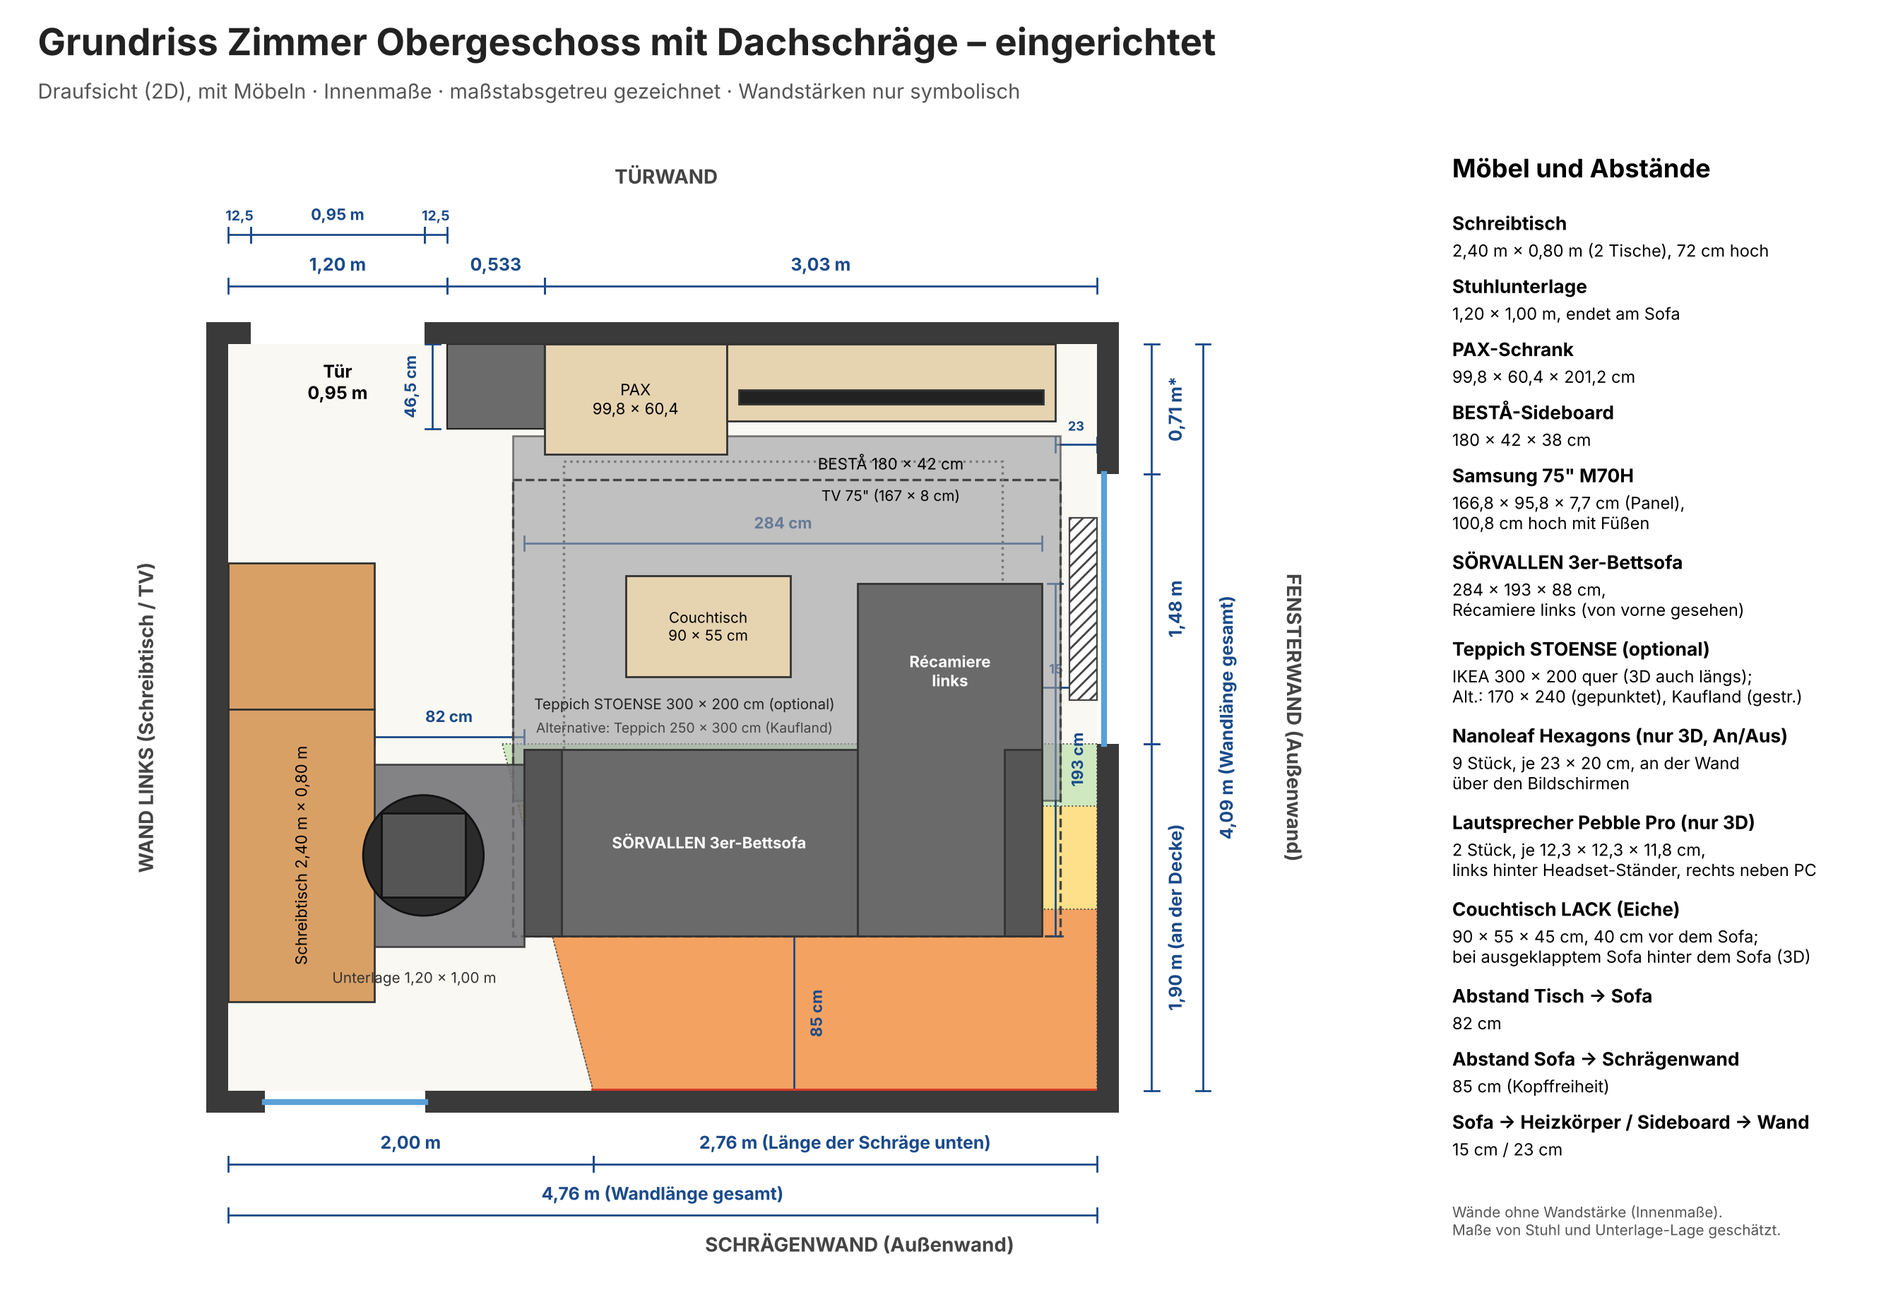
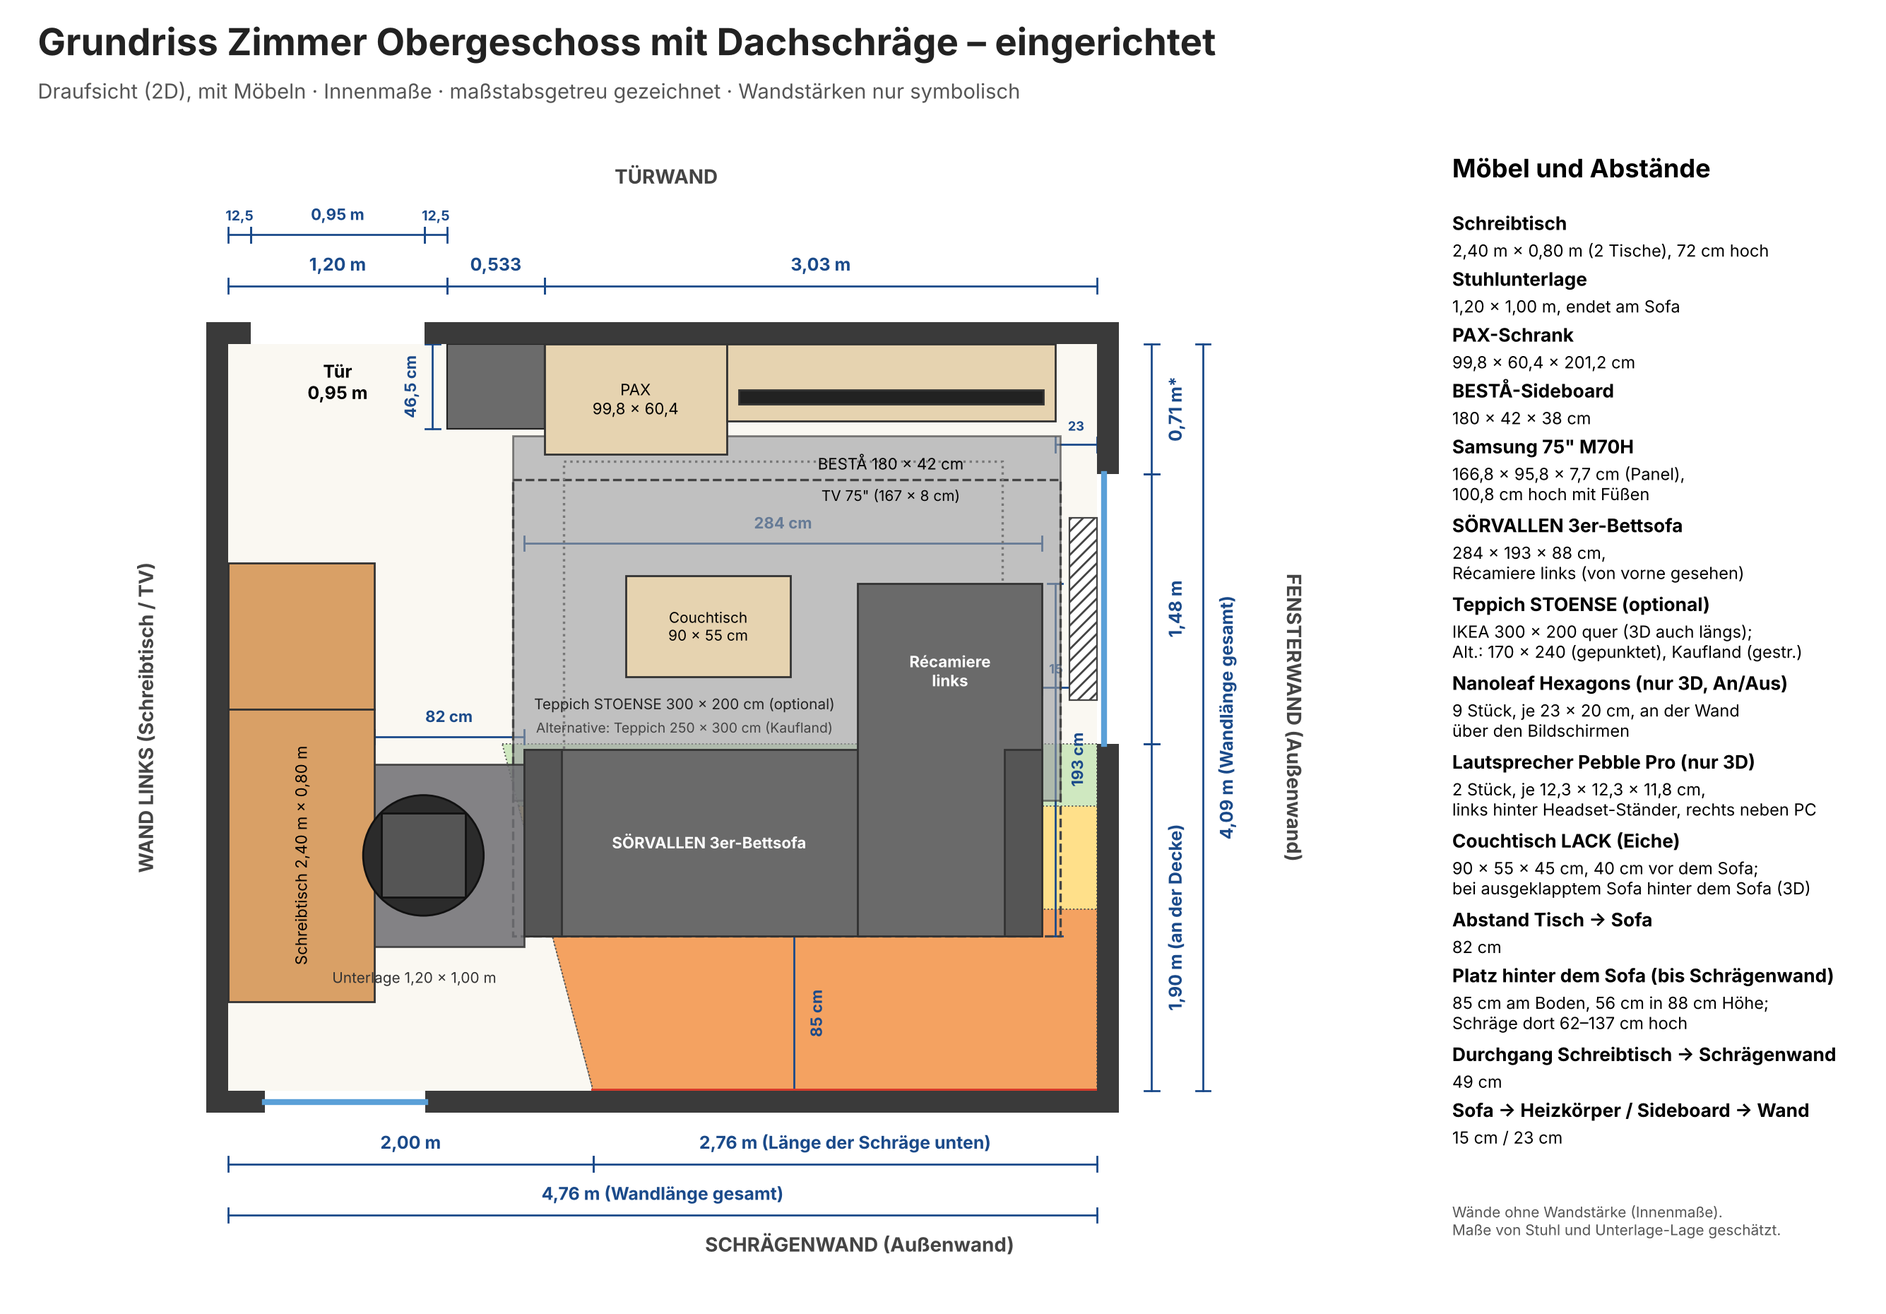
Platz hinter dem Sofa (85 cm, 56 cm in 88 cm Hoehe) in 3D, Plan und Einkaufsliste
Claude-Session: https://claude.ai/code/session_01Hf3Bkowp5NFKLbRns8Nosg

Changed region(s): [[0.7461, 0.1871, 0.9637, 0.8731]]

diff --git a/eingerichtet.html b/eingerichtet.html
@@ -561,7 +561,7 @@ var LC={'Schreibtisch 2,40 m':'tisch','Höhe 72 cm':'tisch','Tiefe 80 cm':'tisch
  'Schrank 99,8 × 60,4 × 201,2 cm':'schrank','201,2 cm':'schrank','99,8 cm':'schrank',
  'Sideboard 180 × 42 × 38 cm':'sideboard','38 cm':'sideboard','180 cm':'sideboard','Rest bis Fensterwand ≈ 0,23 m':'sideboard',
  'Fernseher 75" · Panel 166,8 × 95,8 × 7,7 cm':'tv','Bilddiagonale ≈ 189 cm (75 Zoll)':'tv','100,8 cm (mit Füßen)':'tv','138,8 cm gesamt':'tv',
- 'Sofa SÖRVALLEN 284 × 193 × 88 cm':'sofa','284 cm':'sofa','85 cm Abstand zur Schrägenwand':'sofa','Tiefe 102 cm':'sofa','193 cm':'sofa','Decke 137 cm: 49 cm Luft über Rücken (88 cm)':'sofa','15 cm bis Heizkörper':'sofa','Schlaffläche 239 × 147 cm':'bett','239 cm':'bett','147 cm':'bett','Bettkante bis Sideboard 89 cm':'bett','Couchtisch LACK 90 × 55 × 45 cm':'ctn','Breite 90 cm':'ctn','Tiefe 55 cm':'ctn','bis Sofa 40 cm':'ctn','bis Récamiere 36 cm':'ctn','bis Sideboard 85 cm':'ctn','Höhe 45 cm':'ctn','Couchtisch LACK 90 × 55 × 45 cm (hinter dem Sofa)':'ctb','Breite 90 cm (hinter dem Sofa)':'ctb','Tiefe 55 cm (hinter dem Sofa)':'ctb','bis Sofa 10 cm':'ctb','bis Schrägenwand 20 cm':'ctb','Tischhöhe 45 cm':'ctb',
+ 'Sofa SÖRVALLEN 284 × 193 × 88 cm':'sofa','284 cm':'sofa','85 cm Platz hinter dem Sofa (Schräge dort 62–137 cm hoch)':'sofa','Tiefe 102 cm':'sofa','193 cm':'sofa','Decke 137 cm: 49 cm Luft über Rücken (88 cm)':'sofa','15 cm bis Heizkörper':'sofa','Schlaffläche 239 × 147 cm':'bett','239 cm':'bett','147 cm':'bett','Bettkante bis Sideboard 89 cm':'bett','Couchtisch LACK 90 × 55 × 45 cm':'ctn','Breite 90 cm':'ctn','Tiefe 55 cm':'ctn','bis Sofa 40 cm':'ctn','bis Récamiere 36 cm':'ctn','bis Sideboard 85 cm':'ctn','Höhe 45 cm':'ctn','Couchtisch LACK 90 × 55 × 45 cm (hinter dem Sofa)':'ctb','Breite 90 cm (hinter dem Sofa)':'ctb','Tiefe 55 cm (hinter dem Sofa)':'ctb','bis Sofa 10 cm':'ctb','bis Schrägenwand 20 cm':'ctb','Tischhöhe 45 cm':'ctb',
  'Unterlage 120 cm':'stuhl','38 cm unter Tischplatte':'stuhl','Unterlage 100 cm':'stuhl','Unterlage endet am Sofa':'stuhl','Bürostuhl (geschätzt)':'stuhl',
  'Tisch bis Sofa 82 cm':'abstand','Stuhl–Sofa 27 cm':'abstand'};Object.assign(LC,RUGLC);LEDLB.forEach(function(l){LC[l[0]]='led';});TVLB.forEach(function(l){LC[l[0]]='tvled';});
 var labels=[
@@ -574,7 +574,7 @@ var labels=[
  ['Fernseher 75" · Panel 166,8 × 95,8 × 7,7 cm',TVCX,TVYC,TVZ0+TVH+0.12],['Bilddiagonale ≈ 189 cm (75 Zoll)',TVCX,TVF+0.004,TVZ0+TVH/2],
  ['201,2 cm',PX0+PW/2,PD+0.08,PH/2],['38 cm',SB0+SBW+0.06,SBD,SBH/2],['100,8 cm (mit Füßen)',SB0+SBW+0.06,SBD,SBH+TVH/2],['138,8 cm gesamt',SB0+SBW+0.14,SBD,(TVZ0+TVH)/2],
  ['Sofa SÖRVALLEN 284 × 193 × 88 cm',SX0+SWD/2,D-SGAP-0.6,1.0],['284 cm',SX0+SWD/2,D-SGAP/2,0.02],
- ['85 cm Abstand zur Schrägenwand',SX0-0.08,D-SGAP/2,0.02],['Tiefe 102 cm',SX0-0.08,D-SGAP-0.51,0.02],['193 cm',SX0+SWD+0.08,D-SGAP-0.965,0.02],
+ ['85 cm Platz hinter dem Sofa (Schräge dort 62–137 cm hoch)',SX0-0.08,D-SGAP/2,0.02],['Tiefe 102 cm',SX0-0.08,D-SGAP-0.51,0.02],['193 cm',SX0+SWD+0.08,D-SGAP-0.965,0.02],
  ['Decke 137 cm: 49 cm Luft über Rücken (88 cm)',SX0+SWD/2,D-SGAP,0.95],['15 cm bis Heizkörper',SX0+SWD+0.075,1.95,0.02],
  ['Schlaffläche 239 × 147 cm',3.05,(BYF+BYR)/2,0.9],['239 cm',(BXA+BXB)/2,BYF-0.15,0.02],['147 cm',SX0-0.12,(BYF+BYR)/2,0.02],['Bettkante bis Sideboard 89 cm',4.10,(SBD+BYF)/2,0.02],
  ['Couchtisch LACK 90 × 55 × 45 cm',(CTN[0]+CTN[2])/2,(CTN[1]+CTN[3])/2,0.62],['Breite 90 cm',(CTN[0]+CTN[2])/2,CTN[1]-0.10,0.02],['Tiefe 55 cm',2.08,(CTN[1]+CTN[3])/2,0.02],['bis Sofa 40 cm',2.08,(CTN[3]+D-SGAP-1.02)/2,0.02],['bis Récamiere 36 cm',(CTN[2]+SX0+1.825)/2,1.55,0.02],['bis Sideboard 85 cm',2.75,(SBD+CTN[1])/2,0.02],['Höhe 45 cm',CTN[2]+0.06,1.545,0.22],['Couchtisch LACK 90 × 55 × 45 cm (hinter dem Sofa)',(CTB[0]+CTB[2])/2,(CTB[1]+CTB[3])/2,0.62],['Breite 90 cm (hinter dem Sofa)',(CTB[0]+CTB[2])/2,CTB[3]+0.10,0.02],['Tiefe 55 cm (hinter dem Sofa)',2.50,(CTB[1]+CTB[3])/2,0.02],['bis Sofa 10 cm',2.50,D-SGAP+0.05,0.02],['bis Schrägenwand 20 cm',3.70,(CTB[3]+D)/2,0.02],['Tischhöhe 45 cm',CTB[2]+0.06,(CTB[1]+CTB[3])/2,0.22],

diff --git a/eingerichtet_mobil.html b/eingerichtet_mobil.html
@@ -578,7 +578,7 @@ var LC={'Schreibtisch 2,40 m':'tisch','Höhe 72 cm':'tisch','Tiefe 80 cm':'tisch
  'Schrank 99,8 × 60,4 × 201,2 cm':'schrank','201,2 cm':'schrank','99,8 cm':'schrank',
  'Sideboard 180 × 42 × 38 cm':'sideboard','38 cm':'sideboard','180 cm':'sideboard','Rest bis Fensterwand ≈ 0,23 m':'sideboard',
  'Fernseher 75" · Panel 166,8 × 95,8 × 7,7 cm':'tv','Bilddiagonale ≈ 189 cm (75 Zoll)':'tv','100,8 cm (mit Füßen)':'tv','138,8 cm gesamt':'tv',
- 'Sofa SÖRVALLEN 284 × 193 × 88 cm':'sofa','284 cm':'sofa','85 cm Abstand zur Schrägenwand':'sofa','Tiefe 102 cm':'sofa','193 cm':'sofa','Decke 137 cm: 49 cm Luft über Rücken (88 cm)':'sofa','15 cm bis Heizkörper':'sofa','Schlaffläche 239 × 147 cm':'bett','239 cm':'bett','147 cm':'bett','Bettkante bis Sideboard 89 cm':'bett','Couchtisch LACK 90 × 55 × 45 cm':'ctn','Breite 90 cm':'ctn','Tiefe 55 cm':'ctn','bis Sofa 40 cm':'ctn','bis Récamiere 36 cm':'ctn','bis Sideboard 85 cm':'ctn','Höhe 45 cm':'ctn','Couchtisch LACK 90 × 55 × 45 cm (hinter dem Sofa)':'ctb','Breite 90 cm (hinter dem Sofa)':'ctb','Tiefe 55 cm (hinter dem Sofa)':'ctb','bis Sofa 10 cm':'ctb','bis Schrägenwand 20 cm':'ctb','Tischhöhe 45 cm':'ctb',
+ 'Sofa SÖRVALLEN 284 × 193 × 88 cm':'sofa','284 cm':'sofa','85 cm Platz hinter dem Sofa (Schräge dort 62–137 cm hoch)':'sofa','Tiefe 102 cm':'sofa','193 cm':'sofa','Decke 137 cm: 49 cm Luft über Rücken (88 cm)':'sofa','15 cm bis Heizkörper':'sofa','Schlaffläche 239 × 147 cm':'bett','239 cm':'bett','147 cm':'bett','Bettkante bis Sideboard 89 cm':'bett','Couchtisch LACK 90 × 55 × 45 cm':'ctn','Breite 90 cm':'ctn','Tiefe 55 cm':'ctn','bis Sofa 40 cm':'ctn','bis Récamiere 36 cm':'ctn','bis Sideboard 85 cm':'ctn','Höhe 45 cm':'ctn','Couchtisch LACK 90 × 55 × 45 cm (hinter dem Sofa)':'ctb','Breite 90 cm (hinter dem Sofa)':'ctb','Tiefe 55 cm (hinter dem Sofa)':'ctb','bis Sofa 10 cm':'ctb','bis Schrägenwand 20 cm':'ctb','Tischhöhe 45 cm':'ctb',
  'Unterlage 120 cm':'stuhl','38 cm unter Tischplatte':'stuhl','Unterlage 100 cm':'stuhl','Unterlage endet am Sofa':'stuhl','Bürostuhl (geschätzt)':'stuhl',
  'Tisch bis Sofa 82 cm':'abstand','Stuhl–Sofa 27 cm':'abstand'};Object.assign(LC,RUGLC);LEDLB.forEach(function(l){LC[l[0]]='led';});TVLB.forEach(function(l){LC[l[0]]='tvled';});
 var labels=[
@@ -591,7 +591,7 @@ var labels=[
  ['Fernseher 75" · Panel 166,8 × 95,8 × 7,7 cm',TVCX,TVYC,TVZ0+TVH+0.12],['Bilddiagonale ≈ 189 cm (75 Zoll)',TVCX,TVF+0.004,TVZ0+TVH/2],
  ['201,2 cm',PX0+PW/2,PD+0.08,PH/2],['38 cm',SB0+SBW+0.06,SBD,SBH/2],['100,8 cm (mit Füßen)',SB0+SBW+0.06,SBD,SBH+TVH/2],['138,8 cm gesamt',SB0+SBW+0.14,SBD,(TVZ0+TVH)/2],
  ['Sofa SÖRVALLEN 284 × 193 × 88 cm',SX0+SWD/2,D-SGAP-0.6,1.0],['284 cm',SX0+SWD/2,D-SGAP/2,0.02],
- ['85 cm Abstand zur Schrägenwand',SX0-0.08,D-SGAP/2,0.02],['Tiefe 102 cm',SX0-0.08,D-SGAP-0.51,0.02],['193 cm',SX0+SWD+0.08,D-SGAP-0.965,0.02],
+ ['85 cm Platz hinter dem Sofa (Schräge dort 62–137 cm hoch)',SX0-0.08,D-SGAP/2,0.02],['Tiefe 102 cm',SX0-0.08,D-SGAP-0.51,0.02],['193 cm',SX0+SWD+0.08,D-SGAP-0.965,0.02],
  ['Decke 137 cm: 49 cm Luft über Rücken (88 cm)',SX0+SWD/2,D-SGAP,0.95],['15 cm bis Heizkörper',SX0+SWD+0.075,1.95,0.02],
  ['Schlaffläche 239 × 147 cm',3.05,(BYF+BYR)/2,0.9],['239 cm',(BXA+BXB)/2,BYF-0.15,0.02],['147 cm',SX0-0.12,(BYF+BYR)/2,0.02],['Bettkante bis Sideboard 89 cm',4.10,(SBD+BYF)/2,0.02],
  ['Couchtisch LACK 90 × 55 × 45 cm',(CTN[0]+CTN[2])/2,(CTN[1]+CTN[3])/2,0.62],['Breite 90 cm',(CTN[0]+CTN[2])/2,CTN[1]-0.10,0.02],['Tiefe 55 cm',2.08,(CTN[1]+CTN[3])/2,0.02],['bis Sofa 40 cm',2.08,(CTN[3]+D-SGAP-1.02)/2,0.02],['bis Récamiere 36 cm',(CTN[2]+SX0+1.825)/2,1.55,0.02],['bis Sideboard 85 cm',2.75,(SBD+CTN[1])/2,0.02],['Höhe 45 cm',CTN[2]+0.06,1.545,0.22],['Couchtisch LACK 90 × 55 × 45 cm (hinter dem Sofa)',(CTB[0]+CTB[2])/2,(CTB[1]+CTB[3])/2,0.62],['Breite 90 cm (hinter dem Sofa)',(CTB[0]+CTB[2])/2,CTB[3]+0.10,0.02],['Tiefe 55 cm (hinter dem Sofa)',2.50,(CTB[1]+CTB[3])/2,0.02],['bis Sofa 10 cm',2.50,D-SGAP+0.05,0.02],['bis Schrägenwand 20 cm',3.70,(CTB[3]+D)/2,0.02],['Tischhöhe 45 cm',CTB[2]+0.06,(CTB[1]+CTB[3])/2,0.22],

diff --git a/interaktiv.html b/interaktiv.html
@@ -561,7 +561,7 @@ var LC={'Schreibtisch 2,40 m':'tisch','Höhe 72 cm':'tisch','Tiefe 80 cm':'tisch
  'Schrank 99,8 × 60,4 × 201,2 cm':'schrank','201,2 cm':'schrank','99,8 cm':'schrank',
  'Sideboard 180 × 42 × 38 cm':'sideboard','38 cm':'sideboard','180 cm':'sideboard','Rest bis Fensterwand ≈ 0,23 m':'sideboard',
  'Fernseher 75" · Panel 166,8 × 95,8 × 7,7 cm':'tv','Bilddiagonale ≈ 189 cm (75 Zoll)':'tv','100,8 cm (mit Füßen)':'tv','138,8 cm gesamt':'tv',
- 'Sofa SÖRVALLEN 284 × 193 × 88 cm':'sofa','284 cm':'sofa','85 cm Abstand zur Schrägenwand':'sofa','Tiefe 102 cm':'sofa','193 cm':'sofa','Decke 137 cm: 49 cm Luft über Rücken (88 cm)':'sofa','15 cm bis Heizkörper':'sofa','Schlaffläche 239 × 147 cm':'bett','239 cm':'bett','147 cm':'bett','Bettkante bis Sideboard 89 cm':'bett','Couchtisch LACK 90 × 55 × 45 cm':'ctn','Breite 90 cm':'ctn','Tiefe 55 cm':'ctn','bis Sofa 40 cm':'ctn','bis Récamiere 36 cm':'ctn','bis Sideboard 85 cm':'ctn','Höhe 45 cm':'ctn','Couchtisch LACK 90 × 55 × 45 cm (hinter dem Sofa)':'ctb','Breite 90 cm (hinter dem Sofa)':'ctb','Tiefe 55 cm (hinter dem Sofa)':'ctb','bis Sofa 10 cm':'ctb','bis Schrägenwand 20 cm':'ctb','Tischhöhe 45 cm':'ctb',
+ 'Sofa SÖRVALLEN 284 × 193 × 88 cm':'sofa','284 cm':'sofa','85 cm Platz hinter dem Sofa (Schräge dort 62–137 cm hoch)':'sofa','Tiefe 102 cm':'sofa','193 cm':'sofa','Decke 137 cm: 49 cm Luft über Rücken (88 cm)':'sofa','15 cm bis Heizkörper':'sofa','Schlaffläche 239 × 147 cm':'bett','239 cm':'bett','147 cm':'bett','Bettkante bis Sideboard 89 cm':'bett','Couchtisch LACK 90 × 55 × 45 cm':'ctn','Breite 90 cm':'ctn','Tiefe 55 cm':'ctn','bis Sofa 40 cm':'ctn','bis Récamiere 36 cm':'ctn','bis Sideboard 85 cm':'ctn','Höhe 45 cm':'ctn','Couchtisch LACK 90 × 55 × 45 cm (hinter dem Sofa)':'ctb','Breite 90 cm (hinter dem Sofa)':'ctb','Tiefe 55 cm (hinter dem Sofa)':'ctb','bis Sofa 10 cm':'ctb','bis Schrägenwand 20 cm':'ctb','Tischhöhe 45 cm':'ctb',
  'Unterlage 120 cm':'stuhl','38 cm unter Tischplatte':'stuhl','Unterlage 100 cm':'stuhl','Unterlage endet am Sofa':'stuhl','Bürostuhl (geschätzt)':'stuhl',
  'Tisch bis Sofa 82 cm':'abstand','Stuhl–Sofa 27 cm':'abstand'};Object.assign(LC,RUGLC);LEDLB.forEach(function(l){LC[l[0]]='led';});TVLB.forEach(function(l){LC[l[0]]='tvled';});
 var labels=[
@@ -574,7 +574,7 @@ var labels=[
  ['Fernseher 75" · Panel 166,8 × 95,8 × 7,7 cm',TVCX,TVYC,TVZ0+TVH+0.12],['Bilddiagonale ≈ 189 cm (75 Zoll)',TVCX,TVF+0.004,TVZ0+TVH/2],
  ['201,2 cm',PX0+PW/2,PD+0.08,PH/2],['38 cm',SB0+SBW+0.06,SBD,SBH/2],['100,8 cm (mit Füßen)',SB0+SBW+0.06,SBD,SBH+TVH/2],['138,8 cm gesamt',SB0+SBW+0.14,SBD,(TVZ0+TVH)/2],
  ['Sofa SÖRVALLEN 284 × 193 × 88 cm',SX0+SWD/2,D-SGAP-0.6,1.0],['284 cm',SX0+SWD/2,D-SGAP/2,0.02],
- ['85 cm Abstand zur Schrägenwand',SX0-0.08,D-SGAP/2,0.02],['Tiefe 102 cm',SX0-0.08,D-SGAP-0.51,0.02],['193 cm',SX0+SWD+0.08,D-SGAP-0.965,0.02],
+ ['85 cm Platz hinter dem Sofa (Schräge dort 62–137 cm hoch)',SX0-0.08,D-SGAP/2,0.02],['Tiefe 102 cm',SX0-0.08,D-SGAP-0.51,0.02],['193 cm',SX0+SWD+0.08,D-SGAP-0.965,0.02],
  ['Decke 137 cm: 49 cm Luft über Rücken (88 cm)',SX0+SWD/2,D-SGAP,0.95],['15 cm bis Heizkörper',SX0+SWD+0.075,1.95,0.02],
  ['Schlaffläche 239 × 147 cm',3.05,(BYF+BYR)/2,0.9],['239 cm',(BXA+BXB)/2,BYF-0.15,0.02],['147 cm',SX0-0.12,(BYF+BYR)/2,0.02],['Bettkante bis Sideboard 89 cm',4.10,(SBD+BYF)/2,0.02],
  ['Couchtisch LACK 90 × 55 × 45 cm',(CTN[0]+CTN[2])/2,(CTN[1]+CTN[3])/2,0.62],['Breite 90 cm',(CTN[0]+CTN[2])/2,CTN[1]-0.10,0.02],['Tiefe 55 cm',2.08,(CTN[1]+CTN[3])/2,0.02],['bis Sofa 40 cm',2.08,(CTN[3]+D-SGAP-1.02)/2,0.02],['bis Récamiere 36 cm',(CTN[2]+SX0+1.825)/2,1.55,0.02],['bis Sideboard 85 cm',2.75,(SBD+CTN[1])/2,0.02],['Höhe 45 cm',CTN[2]+0.06,1.545,0.22],['Couchtisch LACK 90 × 55 × 45 cm (hinter dem Sofa)',(CTB[0]+CTB[2])/2,(CTB[1]+CTB[3])/2,0.62],['Breite 90 cm (hinter dem Sofa)',(CTB[0]+CTB[2])/2,CTB[3]+0.10,0.02],['Tiefe 55 cm (hinter dem Sofa)',2.50,(CTB[1]+CTB[3])/2,0.02],['bis Sofa 10 cm',2.50,D-SGAP+0.05,0.02],['bis Schrägenwand 20 cm',3.70,(CTB[3]+D)/2,0.02],['Tischhöhe 45 cm',CTB[2]+0.06,(CTB[1]+CTB[3])/2,0.22],

diff --git a/interaktiv_mobil.html b/interaktiv_mobil.html
@@ -578,7 +578,7 @@ var LC={'Schreibtisch 2,40 m':'tisch','Höhe 72 cm':'tisch','Tiefe 80 cm':'tisch
  'Schrank 99,8 × 60,4 × 201,2 cm':'schrank','201,2 cm':'schrank','99,8 cm':'schrank',
  'Sideboard 180 × 42 × 38 cm':'sideboard','38 cm':'sideboard','180 cm':'sideboard','Rest bis Fensterwand ≈ 0,23 m':'sideboard',
  'Fernseher 75" · Panel 166,8 × 95,8 × 7,7 cm':'tv','Bilddiagonale ≈ 189 cm (75 Zoll)':'tv','100,8 cm (mit Füßen)':'tv','138,8 cm gesamt':'tv',
- 'Sofa SÖRVALLEN 284 × 193 × 88 cm':'sofa','284 cm':'sofa','85 cm Abstand zur Schrägenwand':'sofa','Tiefe 102 cm':'sofa','193 cm':'sofa','Decke 137 cm: 49 cm Luft über Rücken (88 cm)':'sofa','15 cm bis Heizkörper':'sofa','Schlaffläche 239 × 147 cm':'bett','239 cm':'bett','147 cm':'bett','Bettkante bis Sideboard 89 cm':'bett','Couchtisch LACK 90 × 55 × 45 cm':'ctn','Breite 90 cm':'ctn','Tiefe 55 cm':'ctn','bis Sofa 40 cm':'ctn','bis Récamiere 36 cm':'ctn','bis Sideboard 85 cm':'ctn','Höhe 45 cm':'ctn','Couchtisch LACK 90 × 55 × 45 cm (hinter dem Sofa)':'ctb','Breite 90 cm (hinter dem Sofa)':'ctb','Tiefe 55 cm (hinter dem Sofa)':'ctb','bis Sofa 10 cm':'ctb','bis Schrägenwand 20 cm':'ctb','Tischhöhe 45 cm':'ctb',
+ 'Sofa SÖRVALLEN 284 × 193 × 88 cm':'sofa','284 cm':'sofa','85 cm Platz hinter dem Sofa (Schräge dort 62–137 cm hoch)':'sofa','Tiefe 102 cm':'sofa','193 cm':'sofa','Decke 137 cm: 49 cm Luft über Rücken (88 cm)':'sofa','15 cm bis Heizkörper':'sofa','Schlaffläche 239 × 147 cm':'bett','239 cm':'bett','147 cm':'bett','Bettkante bis Sideboard 89 cm':'bett','Couchtisch LACK 90 × 55 × 45 cm':'ctn','Breite 90 cm':'ctn','Tiefe 55 cm':'ctn','bis Sofa 40 cm':'ctn','bis Récamiere 36 cm':'ctn','bis Sideboard 85 cm':'ctn','Höhe 45 cm':'ctn','Couchtisch LACK 90 × 55 × 45 cm (hinter dem Sofa)':'ctb','Breite 90 cm (hinter dem Sofa)':'ctb','Tiefe 55 cm (hinter dem Sofa)':'ctb','bis Sofa 10 cm':'ctb','bis Schrägenwand 20 cm':'ctb','Tischhöhe 45 cm':'ctb',
  'Unterlage 120 cm':'stuhl','38 cm unter Tischplatte':'stuhl','Unterlage 100 cm':'stuhl','Unterlage endet am Sofa':'stuhl','Bürostuhl (geschätzt)':'stuhl',
  'Tisch bis Sofa 82 cm':'abstand','Stuhl–Sofa 27 cm':'abstand'};Object.assign(LC,RUGLC);LEDLB.forEach(function(l){LC[l[0]]='led';});TVLB.forEach(function(l){LC[l[0]]='tvled';});
 var labels=[
@@ -591,7 +591,7 @@ var labels=[
  ['Fernseher 75" · Panel 166,8 × 95,8 × 7,7 cm',TVCX,TVYC,TVZ0+TVH+0.12],['Bilddiagonale ≈ 189 cm (75 Zoll)',TVCX,TVF+0.004,TVZ0+TVH/2],
  ['201,2 cm',PX0+PW/2,PD+0.08,PH/2],['38 cm',SB0+SBW+0.06,SBD,SBH/2],['100,8 cm (mit Füßen)',SB0+SBW+0.06,SBD,SBH+TVH/2],['138,8 cm gesamt',SB0+SBW+0.14,SBD,(TVZ0+TVH)/2],
  ['Sofa SÖRVALLEN 284 × 193 × 88 cm',SX0+SWD/2,D-SGAP-0.6,1.0],['284 cm',SX0+SWD/2,D-SGAP/2,0.02],
- ['85 cm Abstand zur Schrägenwand',SX0-0.08,D-SGAP/2,0.02],['Tiefe 102 cm',SX0-0.08,D-SGAP-0.51,0.02],['193 cm',SX0+SWD+0.08,D-SGAP-0.965,0.02],
+ ['85 cm Platz hinter dem Sofa (Schräge dort 62–137 cm hoch)',SX0-0.08,D-SGAP/2,0.02],['Tiefe 102 cm',SX0-0.08,D-SGAP-0.51,0.02],['193 cm',SX0+SWD+0.08,D-SGAP-0.965,0.02],
  ['Decke 137 cm: 49 cm Luft über Rücken (88 cm)',SX0+SWD/2,D-SGAP,0.95],['15 cm bis Heizkörper',SX0+SWD+0.075,1.95,0.02],
  ['Schlaffläche 239 × 147 cm',3.05,(BYF+BYR)/2,0.9],['239 cm',(BXA+BXB)/2,BYF-0.15,0.02],['147 cm',SX0-0.12,(BYF+BYR)/2,0.02],['Bettkante bis Sideboard 89 cm',4.10,(SBD+BYF)/2,0.02],
  ['Couchtisch LACK 90 × 55 × 45 cm',(CTN[0]+CTN[2])/2,(CTN[1]+CTN[3])/2,0.62],['Breite 90 cm',(CTN[0]+CTN[2])/2,CTN[1]-0.10,0.02],['Tiefe 55 cm',2.08,(CTN[1]+CTN[3])/2,0.02],['bis Sofa 40 cm',2.08,(CTN[3]+D-SGAP-1.02)/2,0.02],['bis Récamiere 36 cm',(CTN[2]+SX0+1.825)/2,1.55,0.02],['bis Sideboard 85 cm',2.75,(SBD+CTN[1])/2,0.02],['Höhe 45 cm',CTN[2]+0.06,1.545,0.22],['Couchtisch LACK 90 × 55 × 45 cm (hinter dem Sofa)',(CTB[0]+CTB[2])/2,(CTB[1]+CTB[3])/2,0.62],['Breite 90 cm (hinter dem Sofa)',(CTB[0]+CTB[2])/2,CTB[3]+0.10,0.02],['Tiefe 55 cm (hinter dem Sofa)',2.50,(CTB[1]+CTB[3])/2,0.02],['bis Sofa 10 cm',2.50,D-SGAP+0.05,0.02],['bis Schrägenwand 20 cm',3.70,(CTB[3]+D)/2,0.02],['Tischhöhe 45 cm',CTB[2]+0.06,(CTB[1]+CTB[3])/2,0.22],

diff --git a/einkaufsliste.html b/einkaufsliste.html
@@ -95,7 +95,7 @@ draw();
 <div class="card"><div class="info"><div class="name">BESTÅ TV-Bank mit Türen (Sideboard)<small>IKEA</small></div><div class="dim">180 × 42 × 38 cm · neben dem Schrank, auf dem Boden</div><div class="tags"><span class="tag">Eicheneffekt, Lappviken</span></div></div>
 <a class="btn" href="https://www.ikea.com/de/de/p/besta-tv-bank-mit-tueren-eicheneff-wlas-lappviken-eicheneff-wlas-s89330709/" target="_blank" rel="noopener">Zum Produkt ↗</a></div>
 
-<div class="card"><div class="info"><div class="name">SÖRVALLEN 3er-Bettsofa mit Récamiere links<small>IKEA</small></div><div class="dim">284 × 193 × 88 cm · unter der Schräge, 85 cm Abstand zur Schrägenwand (Kopffreiheit) · 1.599,00 € (laut IKEA-Planer)</div><div class="tags"><span class="tag">Récamiere links (von vorne gesehen)</span><span class="tag">Bezug Tallmyra mittelgrau</span></div></div>
+<div class="card"><div class="info"><div class="name">SÖRVALLEN 3er-Bettsofa mit Récamiere links<small>IKEA</small></div><div class="dim">284 × 193 × 88 cm · unter der Schräge, 85 cm Platz hinter dem Sofa bis zur Schrägenwand (Kopffreiheit; dort 56 cm tief in 88 cm Höhe) · 1.599,00 € (laut IKEA-Planer)</div><div class="tags"><span class="tag">Récamiere links (von vorne gesehen)</span><span class="tag">Bezug Tallmyra mittelgrau</span></div></div>
 <a class="btn" href="https://www.ikea.com/addon-app/sofas/platform/latest/de/de/navigator/sorvallen/49432390" target="_blank" rel="noopener">Zum Produkt ↗</a></div>
 
 <div class="card"><div class="info"><div class="name">LACK Couchtisch<small>IKEA</small></div><div class="dim">90 × 55 × 45 cm · vor dem Sofa, bei ausgeklapptem Sofa vor dem Bett (20 cm Abstand)</div><div class="tags"><span class="tag">Eicheneffekt weiß lasiert</span><span class="tag">mit Ablage, 19,99 €</span></div></div>
